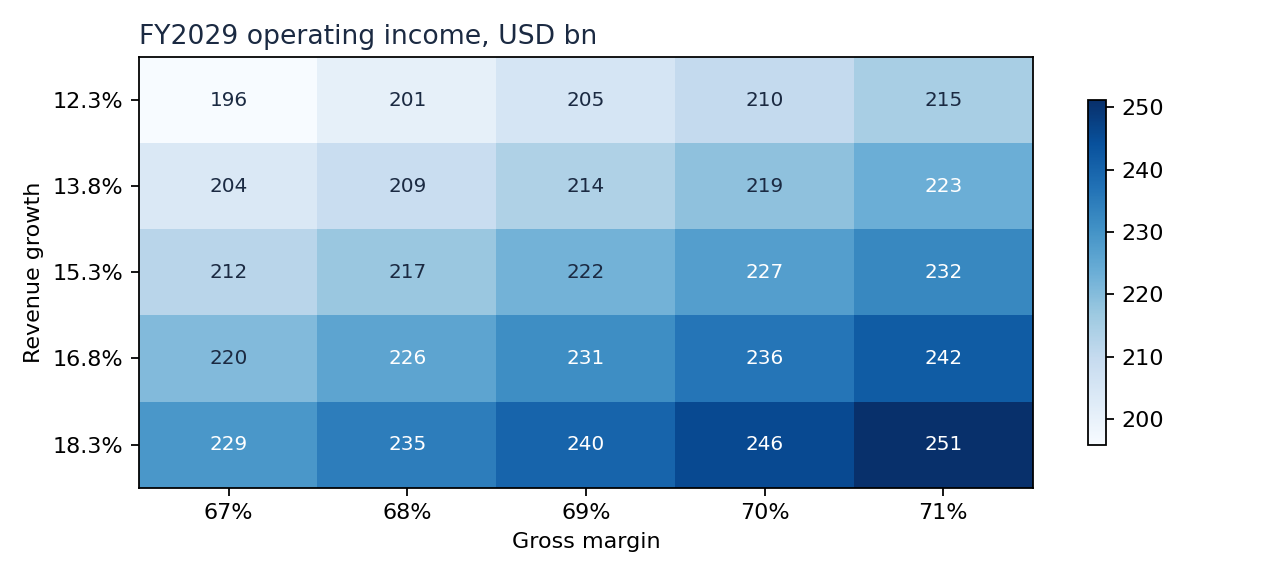
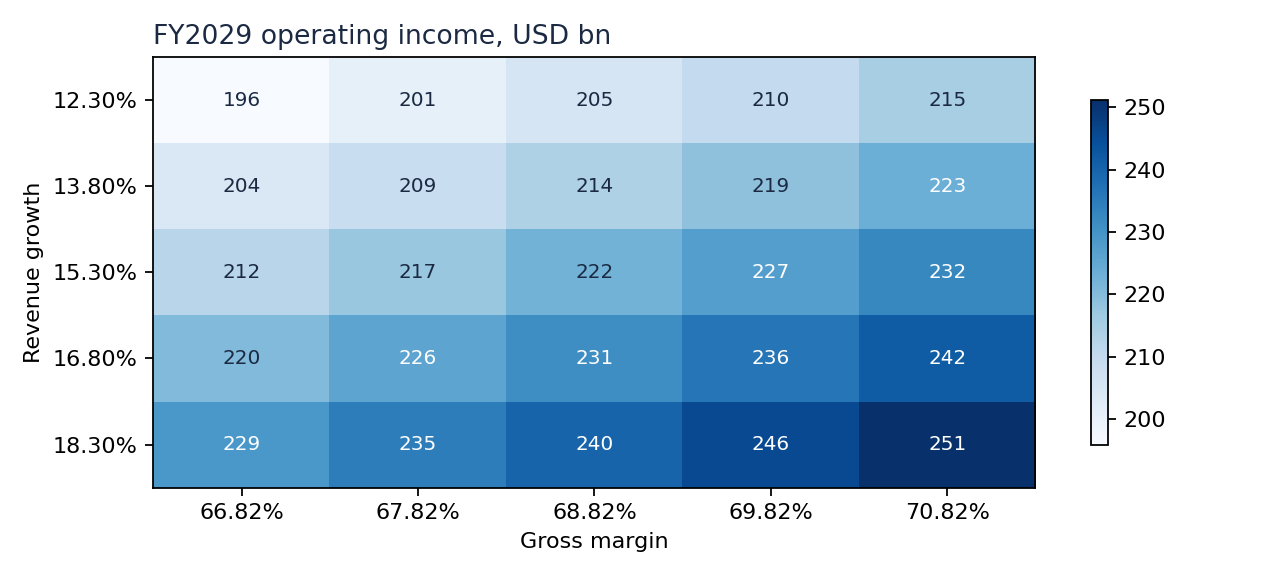
Apply QA fixes to MSFT model: glossary, unit clarity, precise labels and honest memo

diff --git a/scripts/build_msft_finance_model.py b/scripts/build_msft_finance_model.py
@@ -197,9 +197,9 @@ def main() -> None:
     fig, ax = plt.subplots(figsize=(8, 3.6), dpi=160)
     im = ax.imshow(data, cmap="Blues", aspect="auto")
     ax.set_xticks(range(len(gm_axis)))
-    ax.set_xticklabels([f"{g:.0f}%" for g in gm_axis])
+    ax.set_xticklabels([f"{g:.2f}%" for g in gm_axis])
     ax.set_yticks(range(len(sens)))
-    ax.set_yticklabels([f"{r['growth_pct']:.1f}%" for r in sens])
+    ax.set_yticklabels([f"{r['growth_pct']:.2f}%" for r in sens])
     ax.set_xlabel("Gross margin")
     ax.set_ylabel("Revenue growth")
     for i in range(data.shape[0]):
